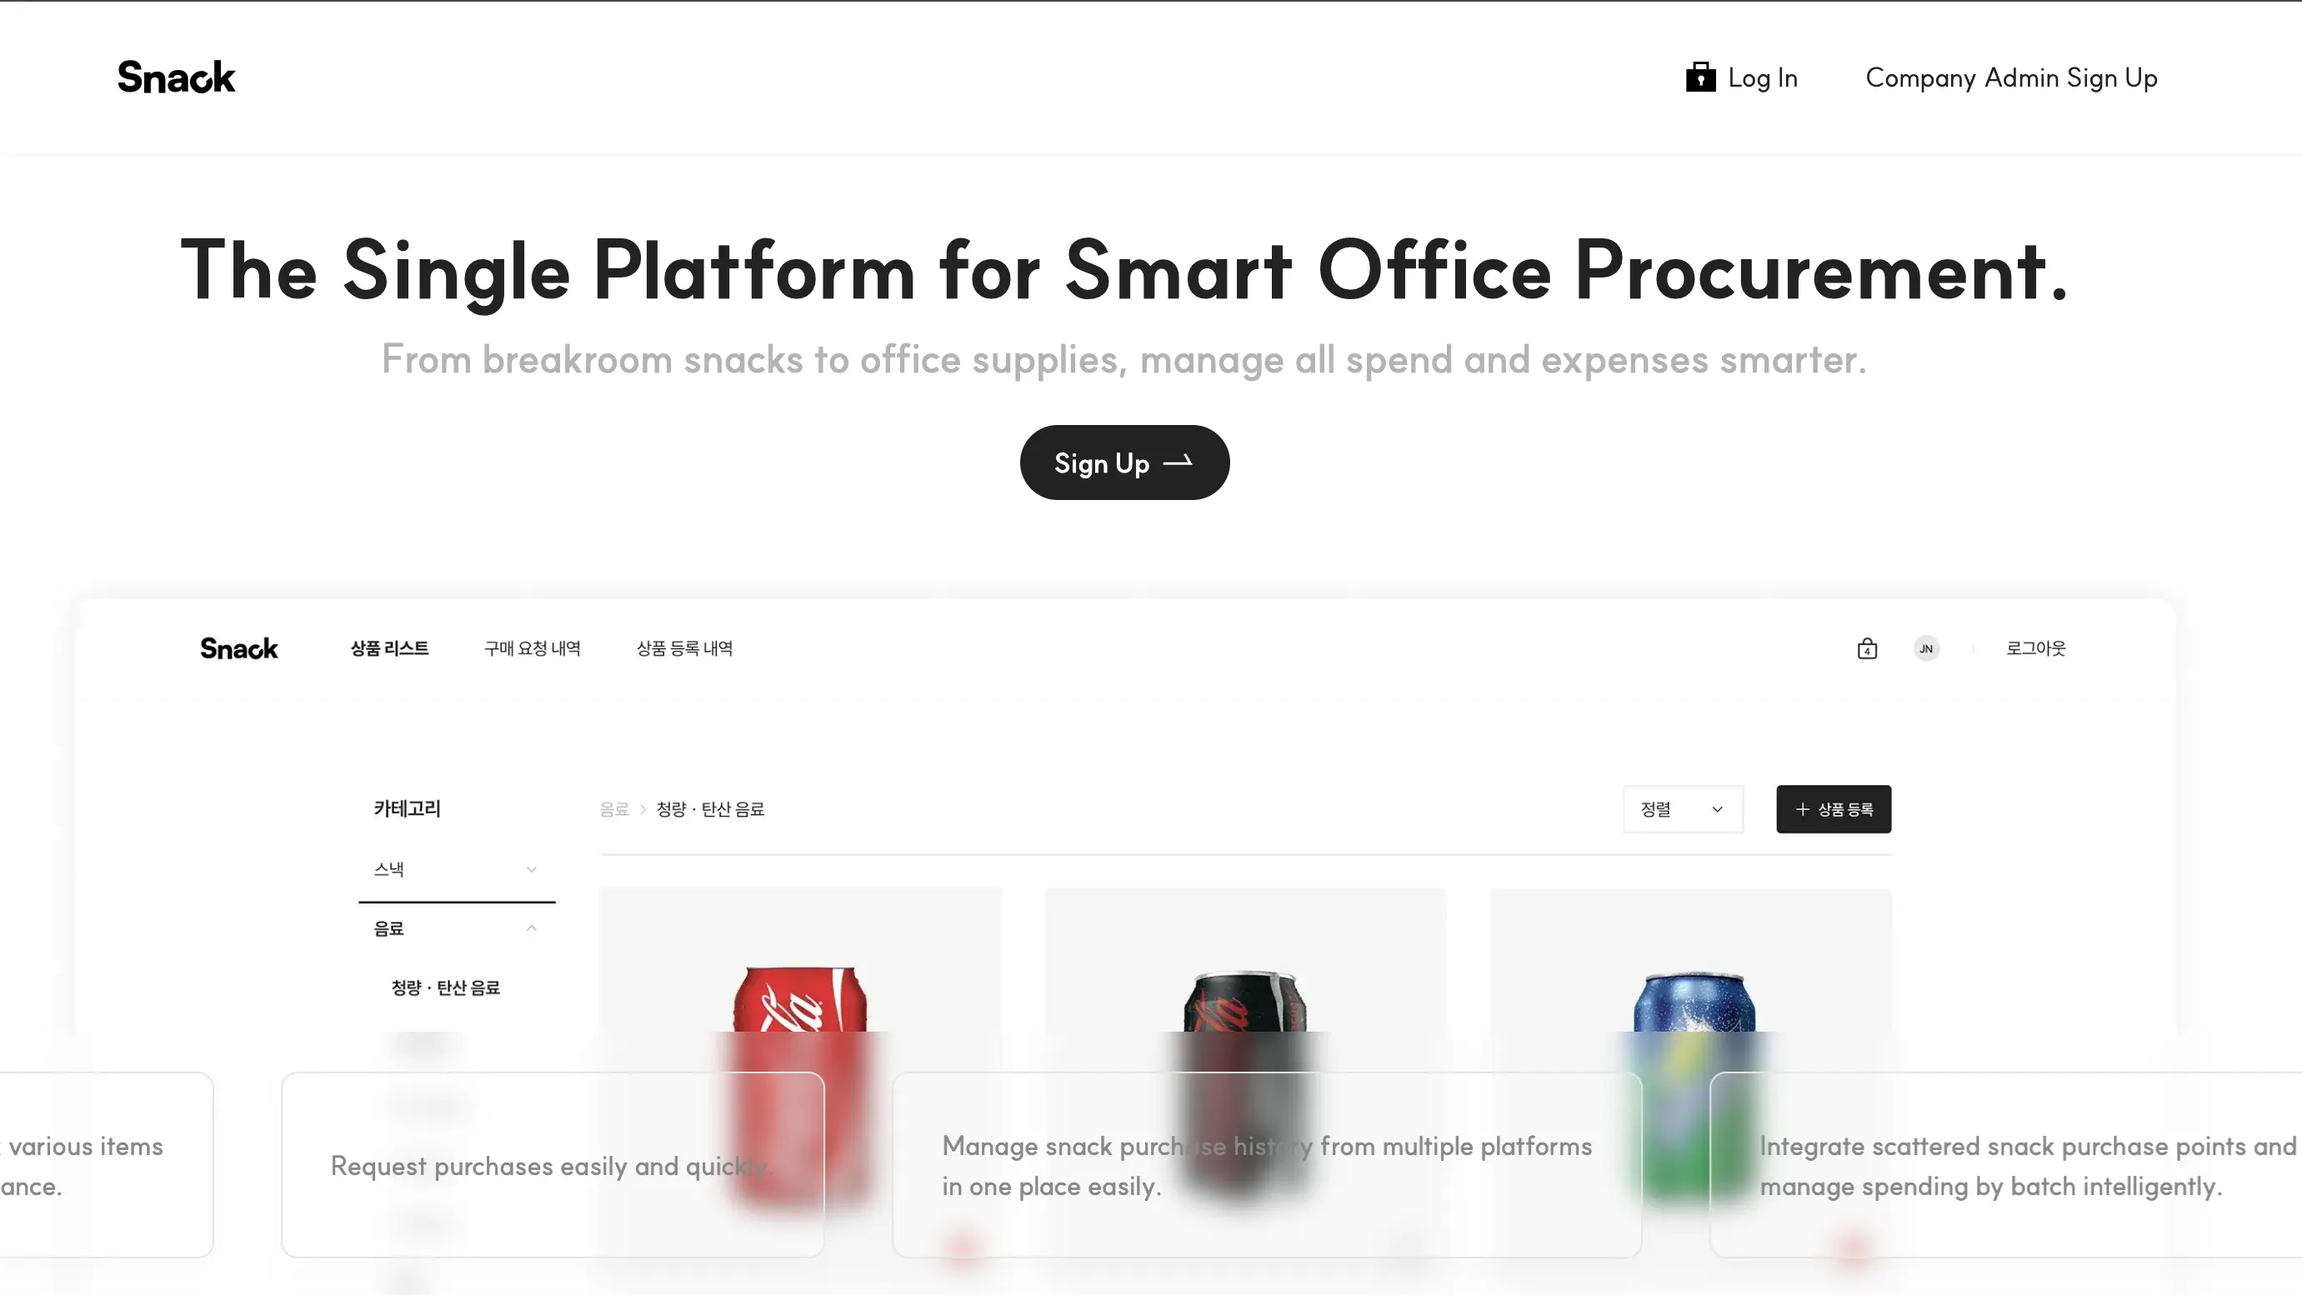
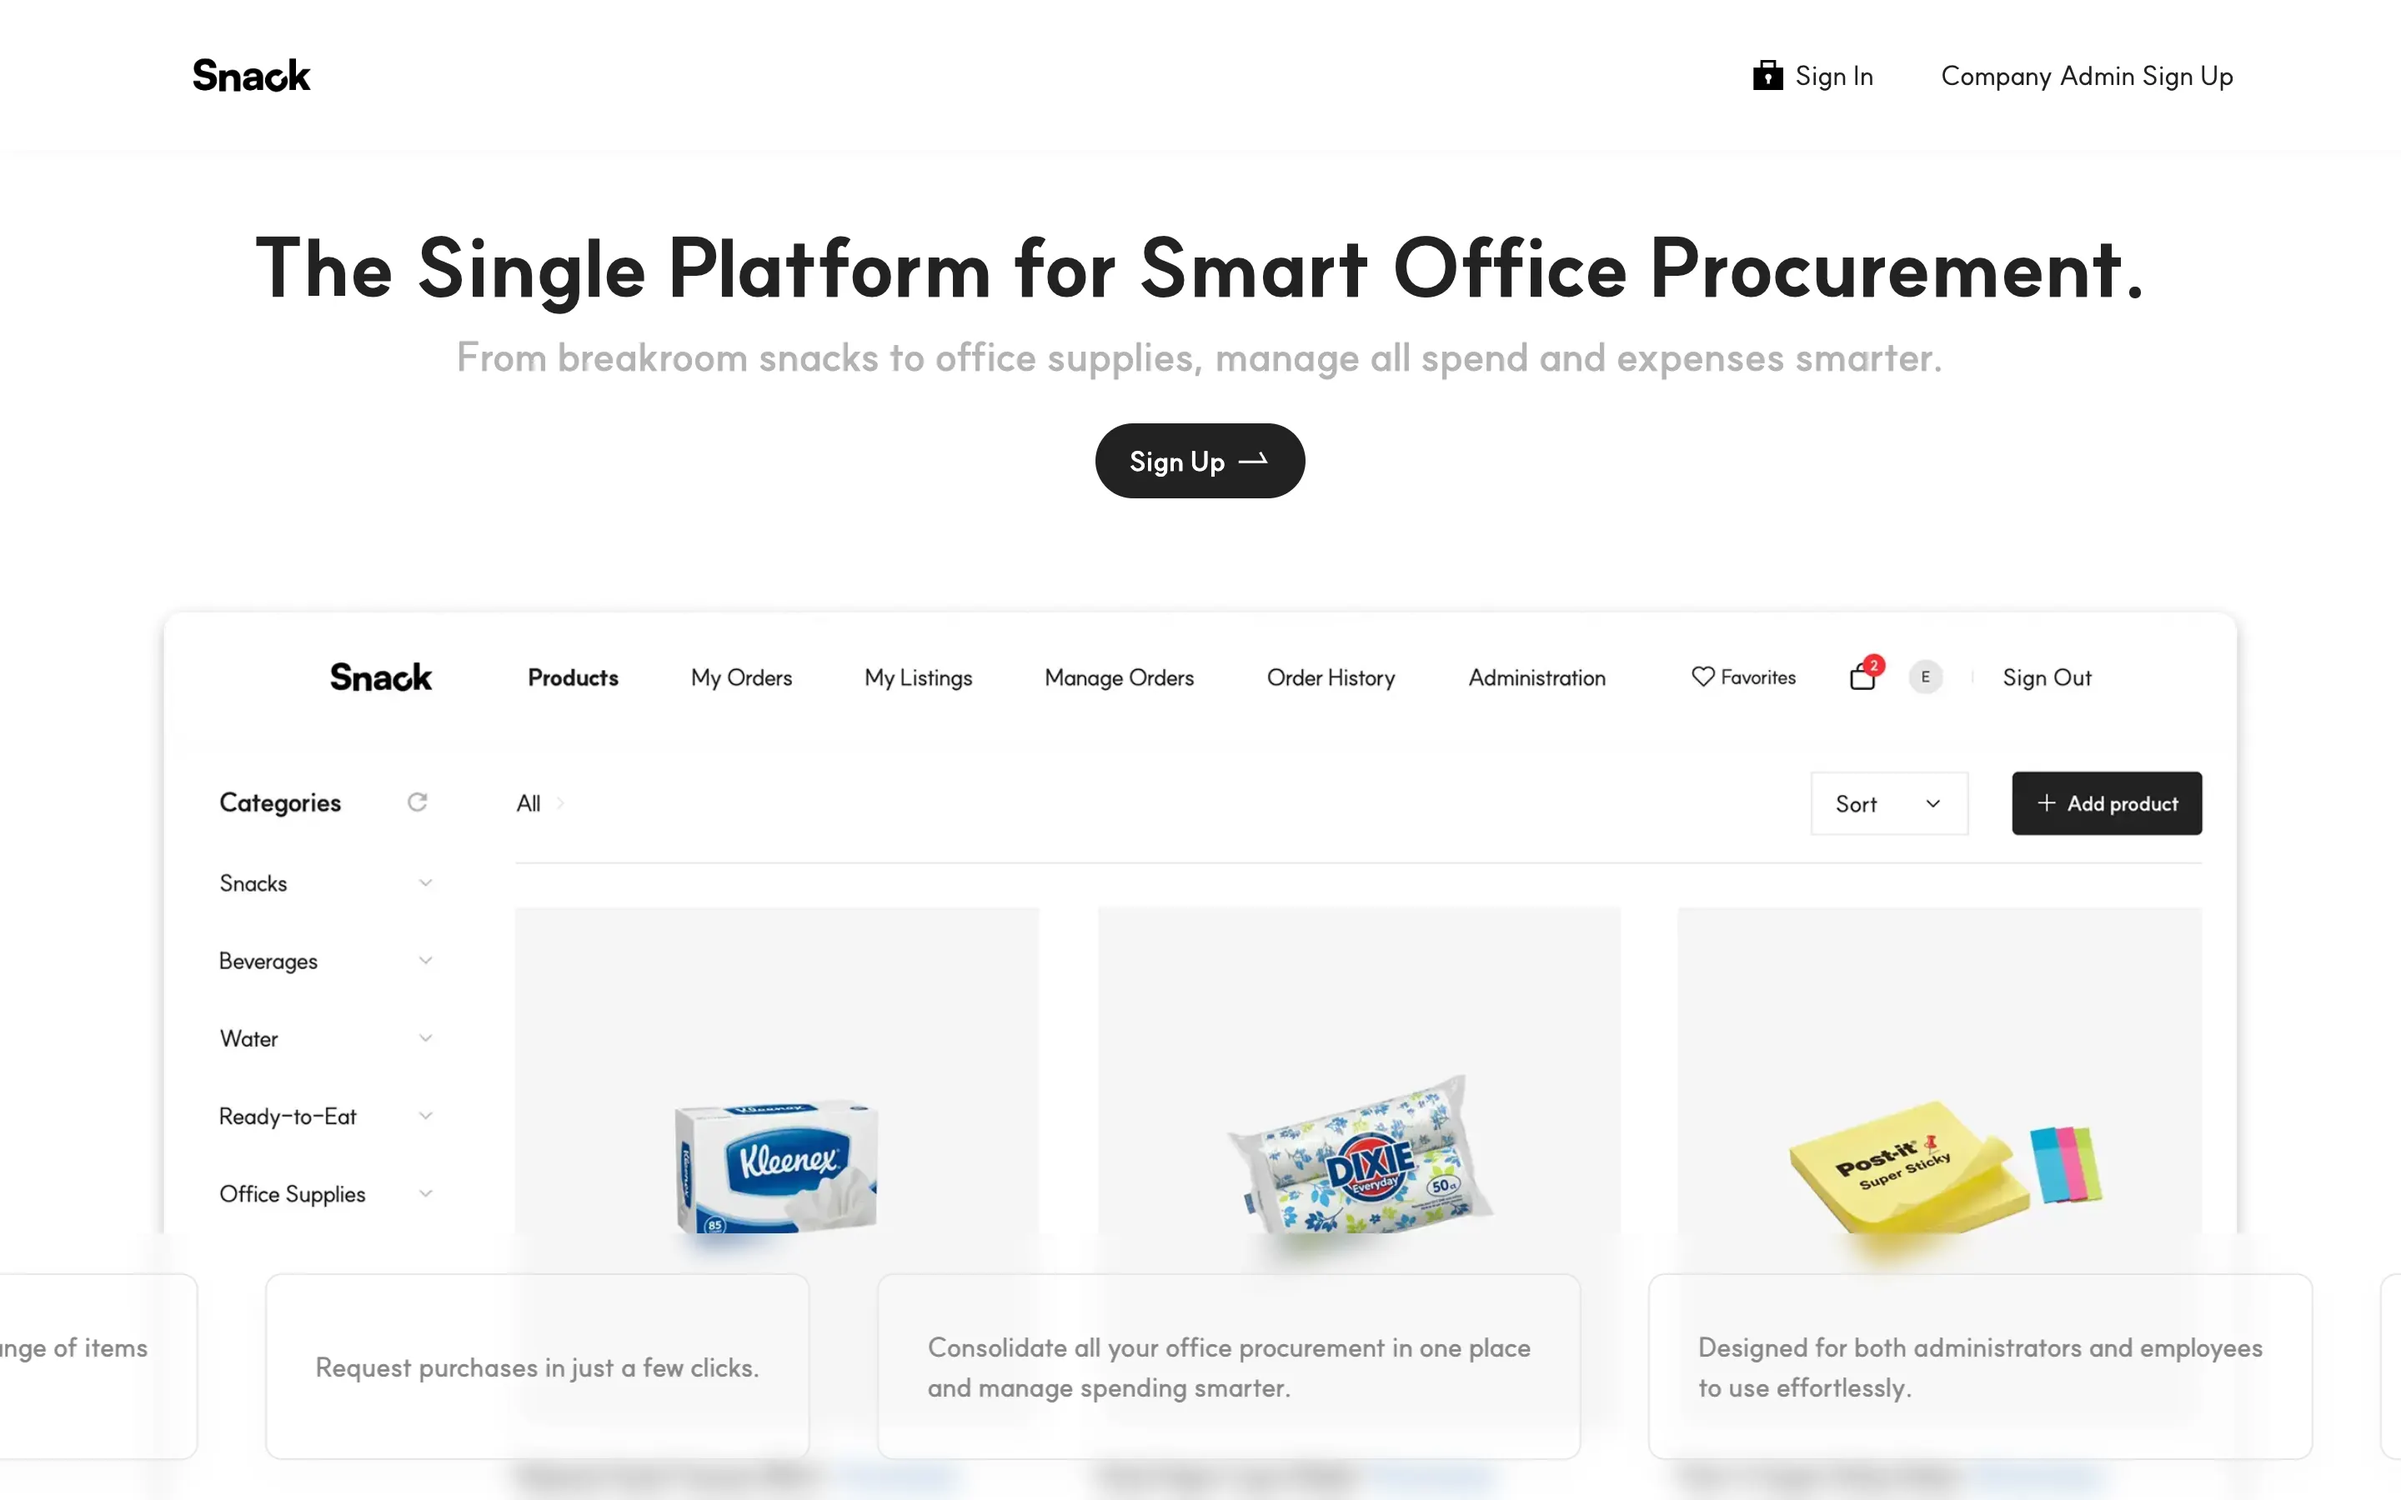
feat: add prop to project card and replace preview image

diff --git a/src/components/ProjectCard.jsx b/src/components/ProjectCard.jsx
@@ -1,7 +1,7 @@
 import Image from "next/image";
 import { Badge } from "./Badge";
 
-export function ProjectCard({ title, description, previewSrc, technologies, status }) {
+export function ProjectCard({ title, description, previewSrc, technologies, status, url }) {
   return (
     <article
       className="
@@ -45,6 +45,16 @@ export function ProjectCard({ title, description, previewSrc, technologies, stat
       <div className="w-full flex flex-col flex-1 justify-center items-start gap-3 px-3 py-3 md:gap-4 md:px-6 md:py-6 ">
         <h3 className="text-foreground text-base/[26px] font-normal">{title}</h3>
         <p className="text-muted-foreground text-sm font-normal">{description}</p>
+        {url && (
+          <a
+            href={url}
+            target="_blank"
+            rel="noopener noreferrer"
+            className="text-sm font-medium text-foreground/90 underline-offset-4 transition hover:text-foreground hover:underline"
+          >
+            View live site ↗
+          </a>
+        )}
         <div className="mt-auto flex flex-wrap gap-4">
           {technologies.map((tech) => (
             <Badge key={tech}>{tech}</Badge>

diff --git a/src/app/page.js b/src/app/page.js
@@ -12,6 +12,7 @@ export default function HomePage() {
       previewSrc: projectSnackPreview,
       technologies: ["next.js", "react", "typescript", "node.js", "tailwind"],
       status: "in-progress",
+      url: "",
     },
     {
       title: "Snack",
@@ -19,6 +20,7 @@ export default function HomePage() {
       previewSrc: projectSnackPreview,
       technologies: ["next.js", "react", "typescript", "node.js", "tailwind", "aws"],
       status: "completed",
+      url: "https://sn8ck.com",
     },
   ];
   return (
@@ -98,6 +100,7 @@ export default function HomePage() {
                 previewSrc={p.previewSrc}
                 technologies={p.technologies}
                 status={p.status}
+                url={p.url}
               />
             ))}
           </div>
